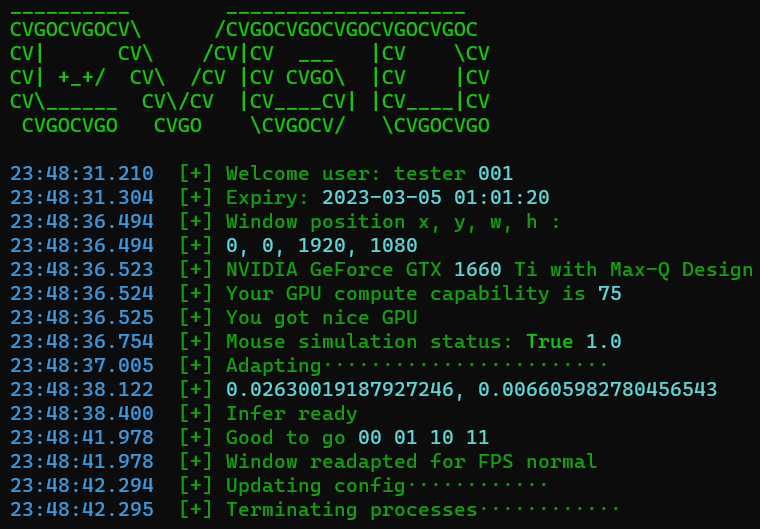
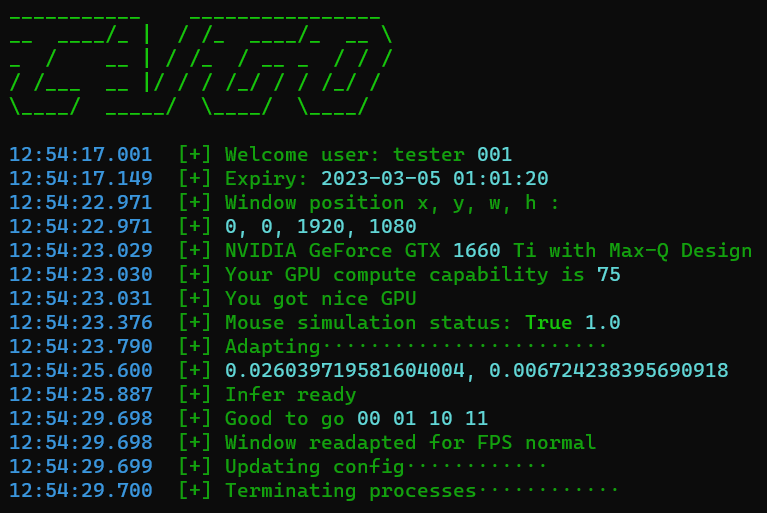
gui

Changed region(s): [[0.0, 0.2807, 0.9987, 0.9981], [0.0, 0.0, 0.6658, 0.2495]]

diff --git a/README.md b/README.md
@@ -1,4 +1,13 @@
-# **CVGO -.-....---.--- 𝐑𝐞𝐥𝐞𝐚𝐬𝐞**
+```
+ NNNNNN\  NN\    NN\  NNNNNN\   NNNNNN\  
+NN  __NN\ NN |   NN |NN  __NN\ NN  __NN\ 
+NN /  \__|NN |   NN |NN /  \__|NN /  NN |
+NN |      \NN\  NN  |NN |NNNN\ NN |  NN |
+NN |       \NN\NN  / NN |\_NN |NN |  NN |
+NN |  NN\   \NNN  /  NN |  NN |NN |  NN |
+\NNNNNN  |   \N  /   \NNNNNN  | NNNNNN  |
+ \______/     \_/     \______/  \______/ 
+```
 ## 𝒀𝑶𝑳𝑶𝒗 𝑽/𝑽𝑰/𝑽𝑰𝑰/𝑿 𝒃𝒂𝒔𝒆𝒅 𝒂𝒊𝒎 𝒂𝒔𝒔𝒊𝒔𝒕
 ![image](Gui/cmd.png)
 * Dark theme
